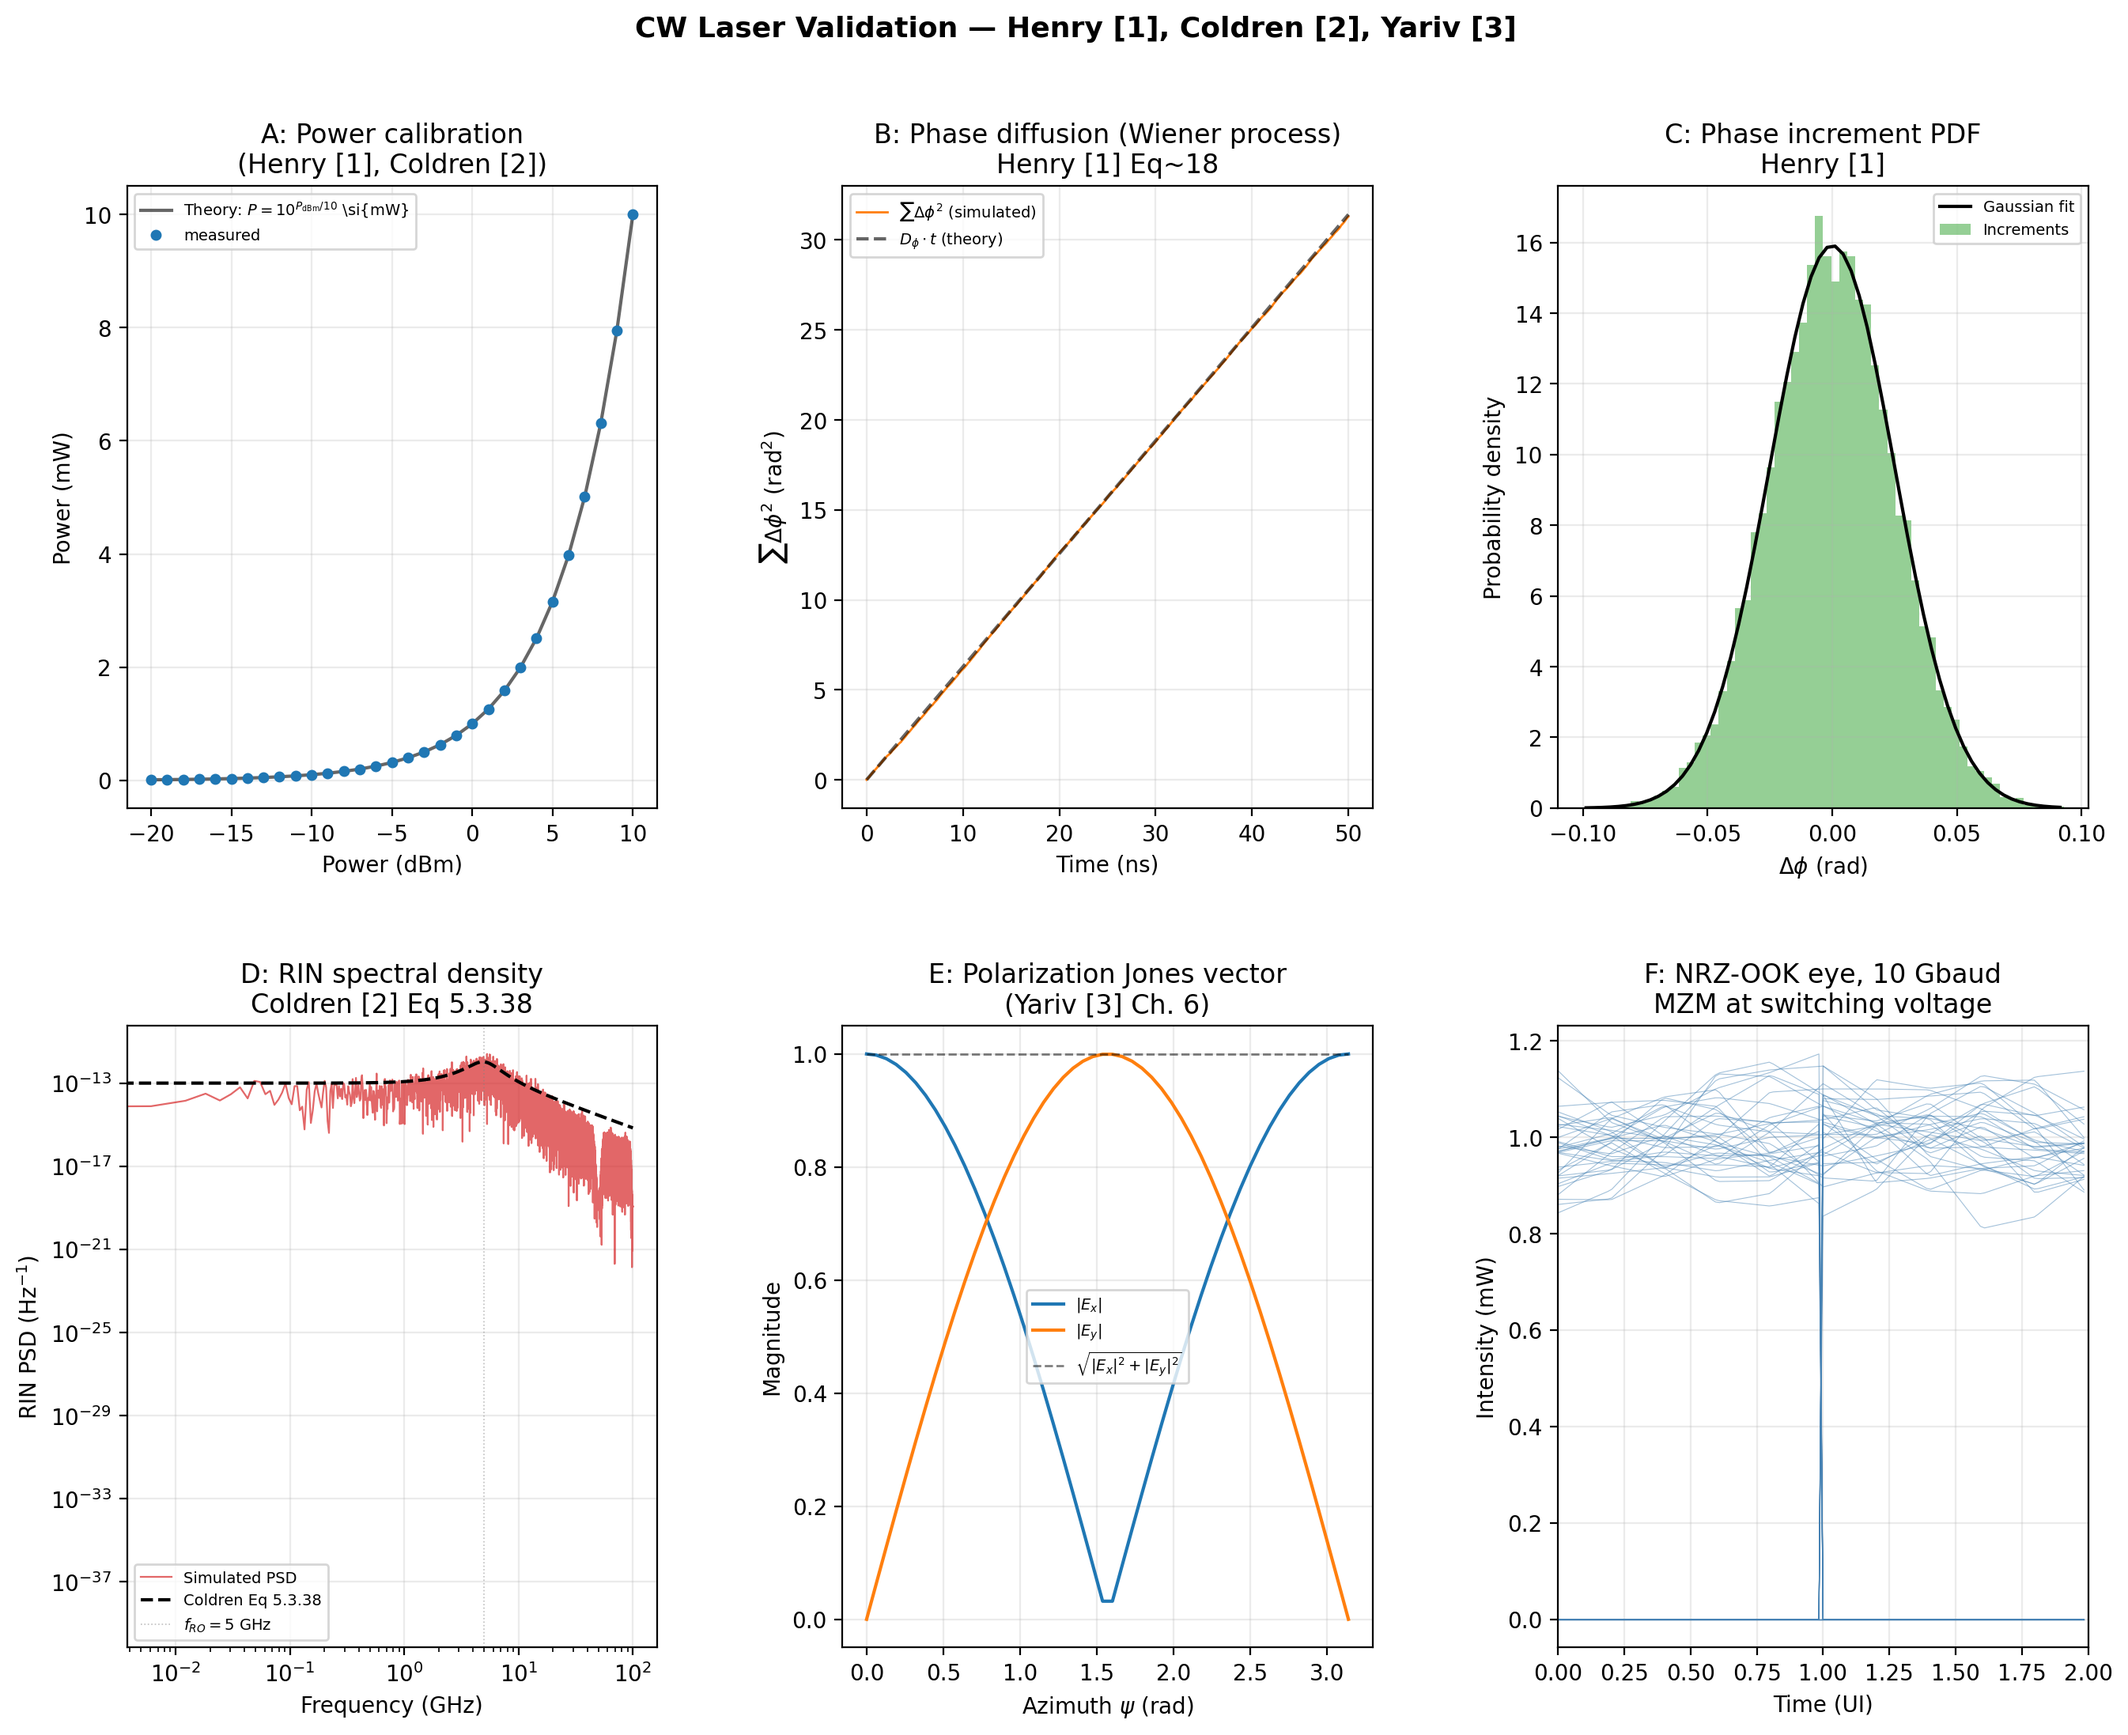
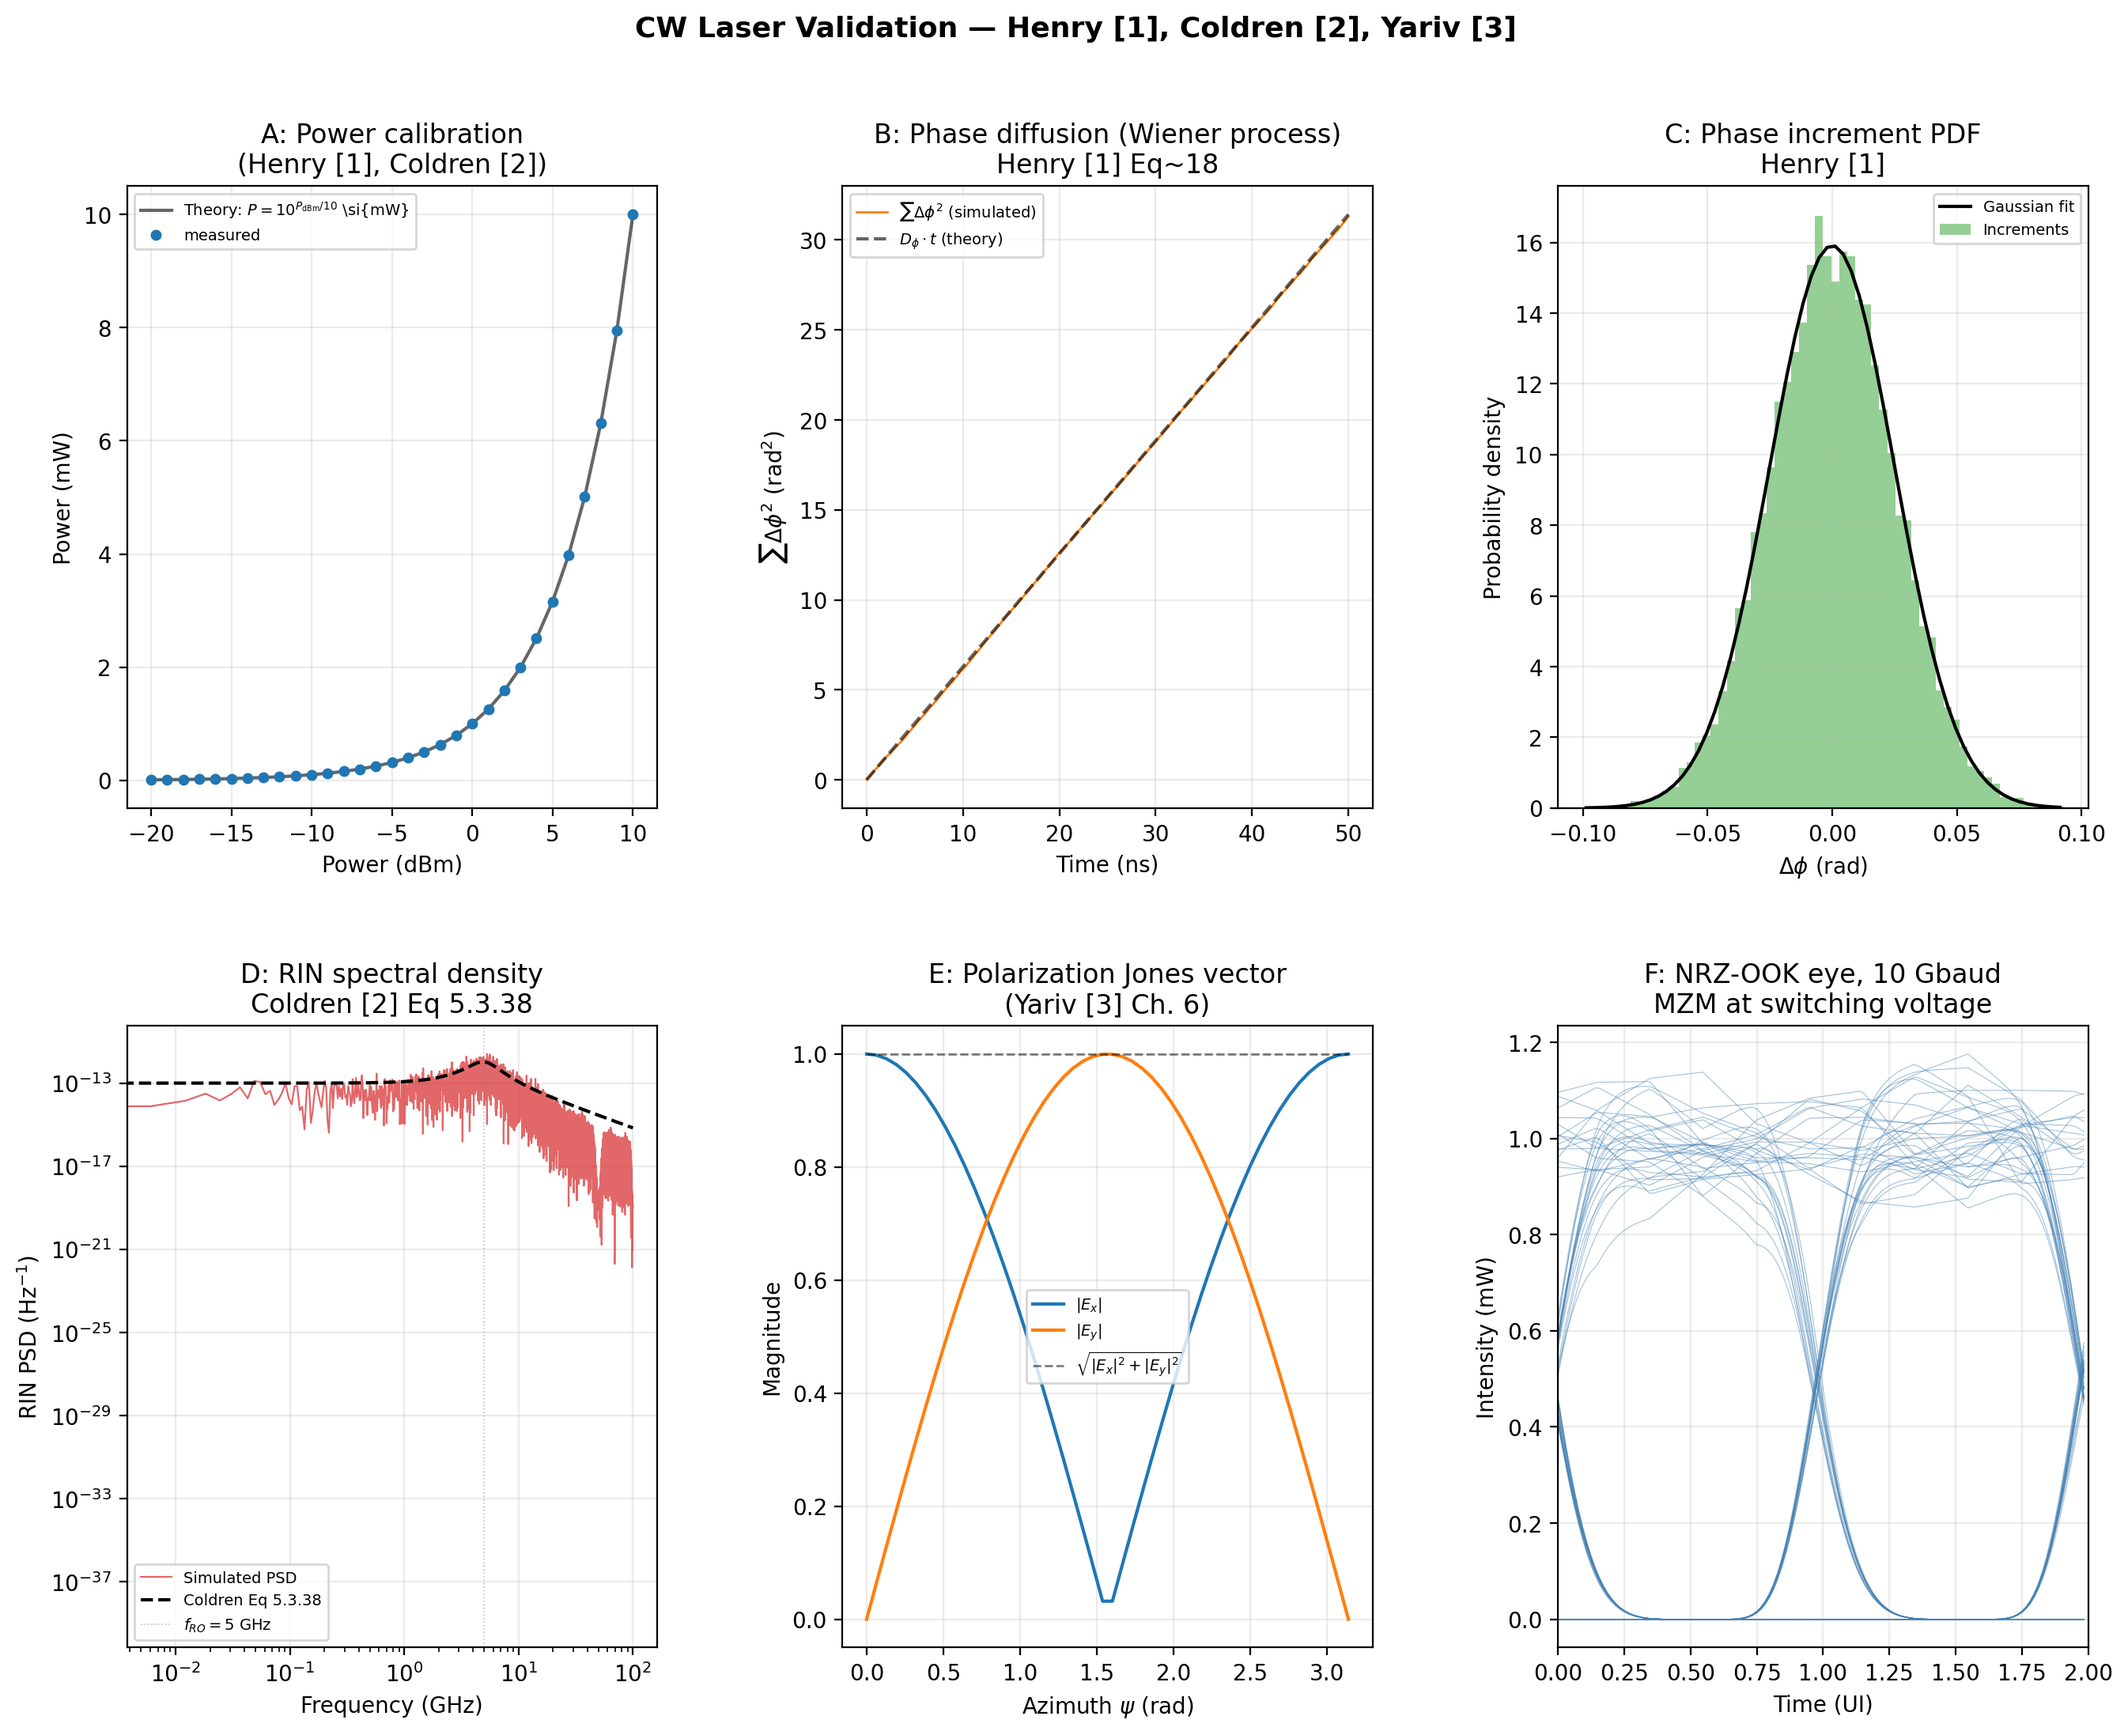
Fix two reproducibility defects the harness pass turned up
Ran run_all.py over all 18 non-Gobby validators as a verification pass.
All 18 passed, but two artifacts came back changed, and neither change was
the float-level noise that has been the usual answer.

The CW laser figure was stale, and that one is mine. I regenerated it while
the eye diagram still had an unfiltered drive, then kept fixing the eye --
band-limiting, the group-delay correction, discarding the settling bit --
and committed the old PNG alongside the new code. So the committed panel F
showed the broken eye: two flat rails and a vertical line, no opening. The
harness regenerated it correctly. Regenerating an artifact before finishing
the code that draws it is not a race the guards catch.

The calibration figure was never reproducible at all, and that one is
pre-existing. It hashed differently on every run -- three runs, three
hashes. SEED = 42 reaches FiberRealization, which seeds its own stream, but
the detectors draw from the global numpy state: spad.detect calls
np.random.random for the dark count, the click and the afterpulse, and
np.random.exponential for the delay. Nothing seeded it. The click histogram
is the entire figure, so the committed artifact stood behind no particular
run, and every harness pass left the repository dirty for no reason.

One line fixes it, in the same place validate_cwlaser.py puts it. Three
runs now give one hash.

Checked before assuming: bb84_duplinskiy is unchanged against the session
[…]

Changed region(s): [[0.7179, 0.6199, 0.9989, 0.8988], [0.9677, 0.7129, 0.9989, 0.8368]]

diff --git a/analysis/validation/validate_duplinskiy_calibration.py b/analysis/validation/validate_duplinskiy_calibration.py
@@ -70,6 +70,17 @@ def _stem(reduced):
 SEED = 42
 DISTANCE = 50
 
+# SEED reaches `FiberRealization`, which seeds its own stream, but the
+# detectors draw from the GLOBAL numpy state: `spad.detect` calls
+# `np.random.random` for the dark count, the click and the afterpulse, and
+# `np.random.exponential` for the afterpulse delay.  Without this line the
+# click histogram -- which is the entire figure -- came out different on
+# every run, so the committed artifact could not be reproduced and every
+# harness pass left the repository dirty for no reason.
+#
+# Same fix and same placement as `validate_cwlaser.py`.
+np.random.seed(SEED)
+
 # The paper's Table 1, verbatim.  Pulse numbers 1-8, with C = circular and
 # L = linear in its notation; this chain calls the linear basis X.
 TABLE_1 = [
